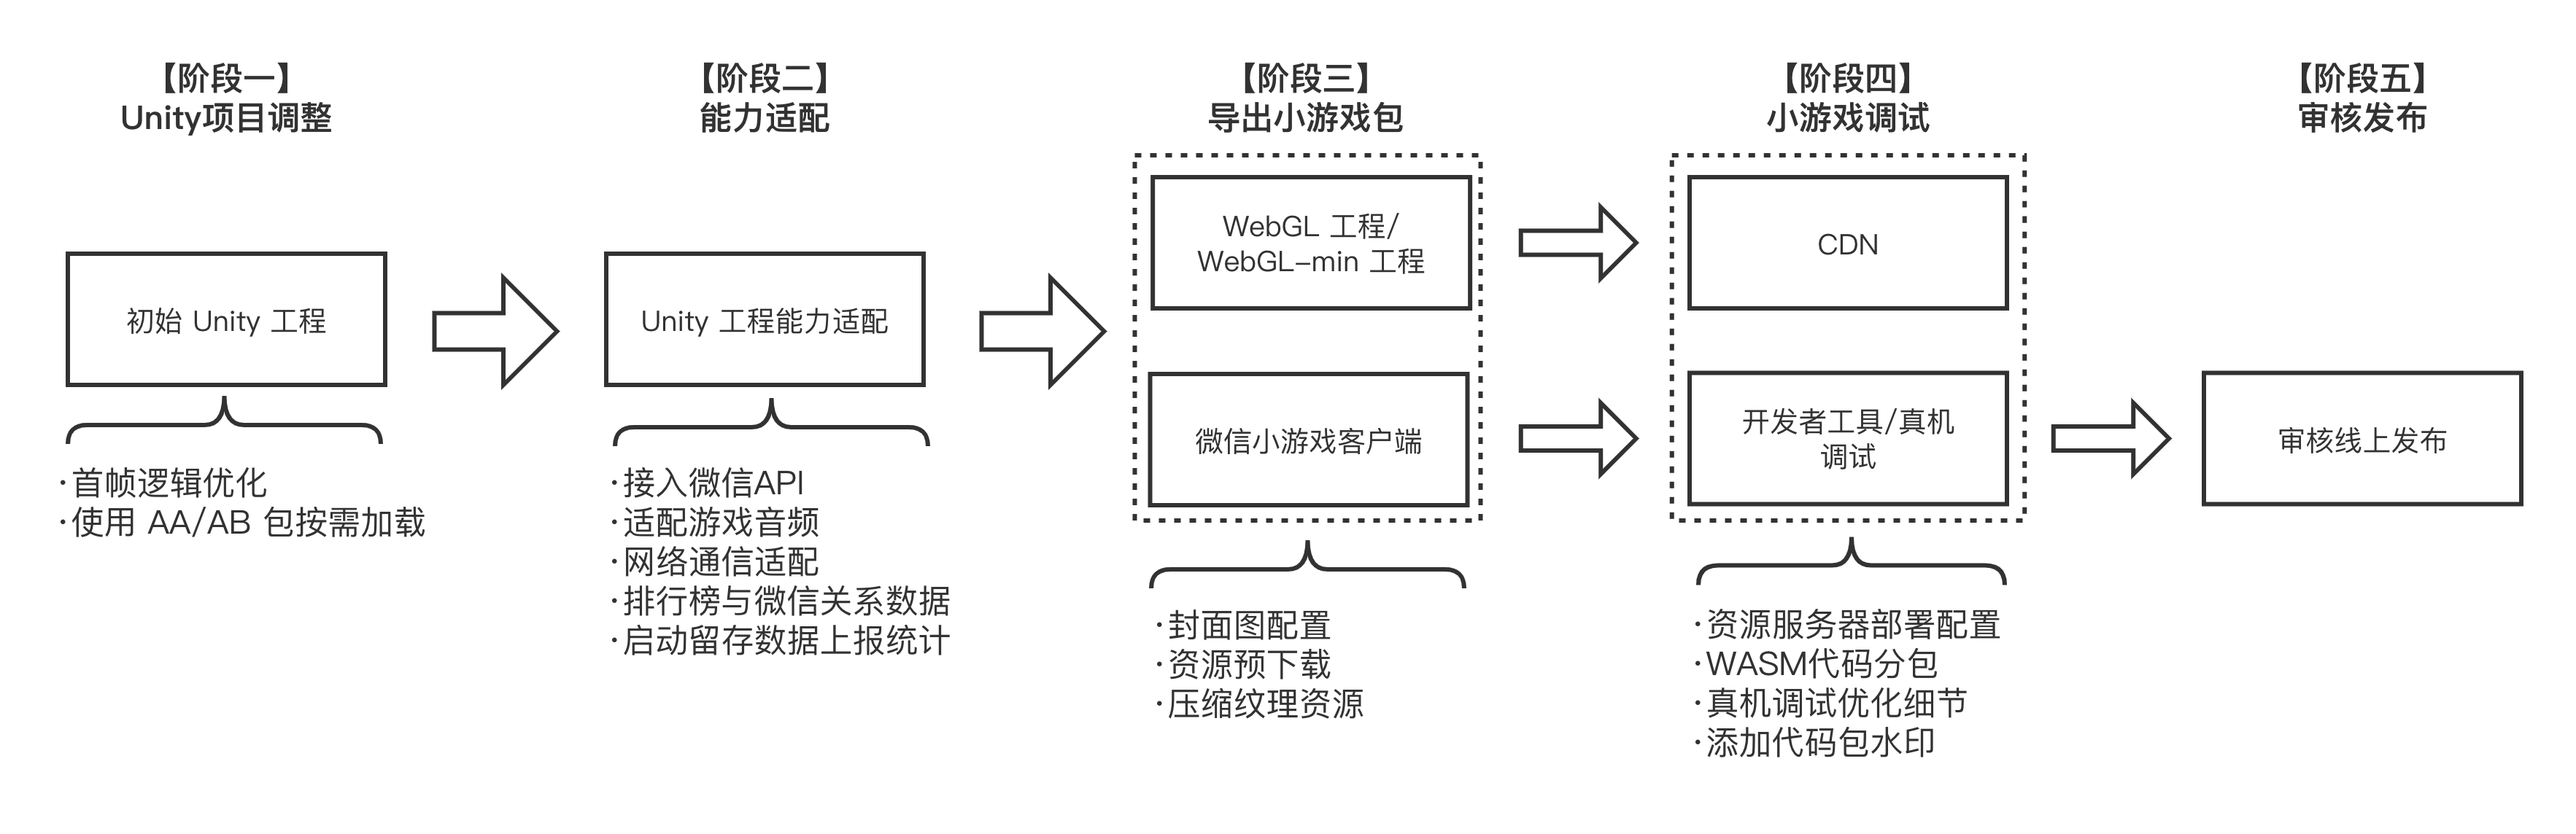
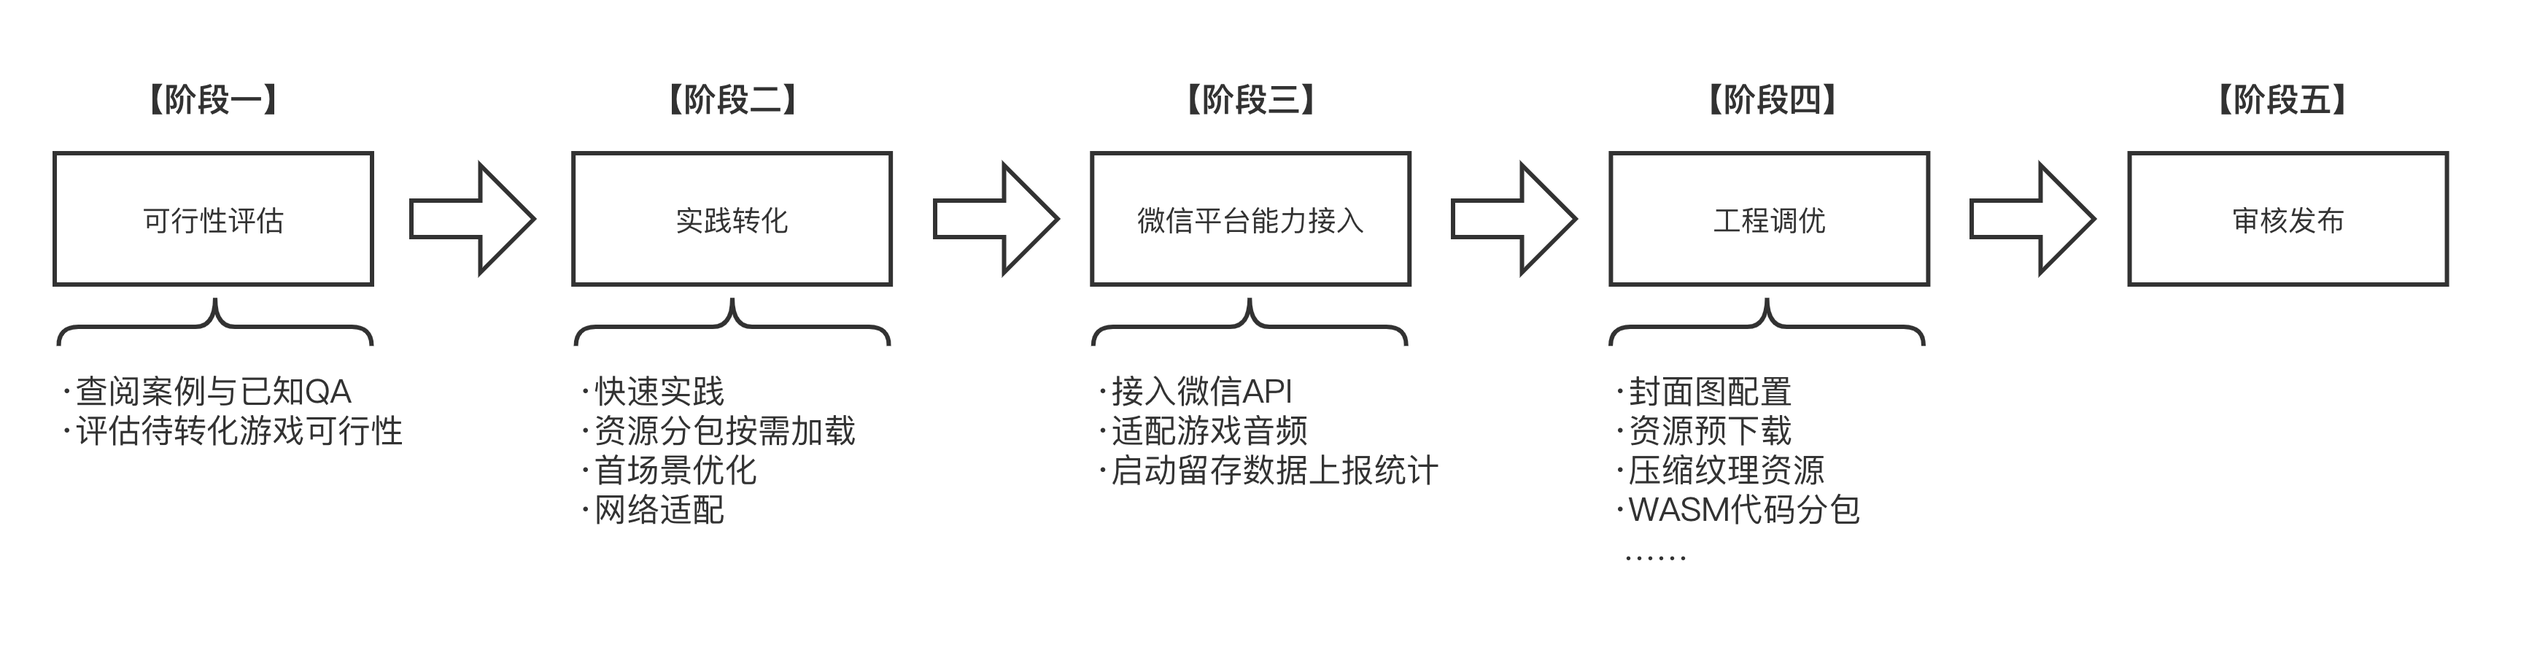
docs: guide

diff --git a/Design/Guide.md b/Design/Guide.md
@@ -1,62 +1,112 @@
 # Unity 游戏接入微信小游戏指南
 
-> 相关下载 [微信 Unity 插件下载](https://game.weixin.qq.com/cgi-bin/gamewxagwasmsplitwap/getunityplugininfo?download=1)
+		欢迎使用 Unity WebGL 小游戏适配(转换)方案，本方案设计目的是**降低 Unity 游戏转换到微信小游戏的开发成本**。基于WebAssembly技术，无需更换Unity引擎与重写核心代码的情况下将原有游戏项目适配到微信小游戏。
 
-		本文档将介绍微信平台提供的各项转化能力的说明与指引，并告知开发者如何根据自己的游戏正确使用这些能力以达到最佳的游戏转化效果，开发者参考文档根据自己游戏所符合条件开始实践！
+### 方案特点：
+
+- 保持原引擎工具链与技术栈
+- 无需重写游戏核心逻辑，支持大部分第三方插件
+- 由转换工具与微信小游戏运行环境保证适配兼容，保持较高还原度
+- 微信小游戏平台能力以C# SDK方式提供给开发者，快速对接平台开放能力
 
 		下图中介绍了接入过程中的流程，以及每一个阶段需要做的优化与配置，下文将介绍每一个阶段的工作：
 
 ![Unity快适配调优指南](../image/guide/guide1.png)
 
-- [【阶段一】Unity项目调整](#阶段一unity项目调整)
-- [【阶段二】能力适配](#阶段二能力适配)
-- [【阶段三】导出小游戏包](#阶段三导出小游戏包)
-- [【阶段四】小游戏调试](#阶段四小游戏调试)
+- [【阶段一】可行性评估](#阶段一可行性评估)
+- [【阶段二】实践转化](#阶段二实践转化)
+- [【阶段三】微信平台能力接入](#阶段三微信平台能力接入)
+- [【阶段四】工程调优](#阶段四工程调优)
 - [【阶段五】审核发布](#阶段五审核发布)
 
-### Unity 版本说明：
-
-		尽管 Unity 快适配方案目前已经支持 2021 及之前的 Unity 引擎版本，但实际开展工作时对范围内部分的 Unity 版本仍然支持不够好，尤其是纹理压缩方案中问题较多，为了确保接入工作的顺利进行，请开发者根据大年份版本切换至指定的小版本引擎中开始适配，以下版本已经被多家开发者验证方案的可行性。
-
-- **2021.2.18f1c1**	（请勿使用 2021.3.x ，已知该版本构建的 bundle 无法进行纹理压缩处理）
-- **2020.3.10f1c1**
-- **2019.4.28f1c1**
 
 
+## 【阶段一】可行性评估
 
-## 【阶段一】Unity项目调整
+> 相关手册：[兼容性评估](Evaluation.md) 、[更多小游戏成功转换案例](ShowCase.md) 、[技术常见问题QA](DevelopmentQAList.md)
+
+		新计划接入游戏的开发者应阅读本节相关手册内容，参考已转化的案例游戏并结合自身游戏情况评估转化的可行性。
+
+### 案例游戏分享
+
+| 我叫MT2(回合战斗) | 旅行串串(休闲) | 谜题大陆(SLG) | 热血神剑(MMO) |
+| :-: | :-: | :-: | :-: |
+| <img src='../image/showcase34.png' width="240"/> | <img src='../image/showcase32.png' width="220"/> | <img src='../image/showcase25.png' width="230"/> | <img src='../image/showcase33.png' width="230"/> |
+
+
+
+## 【阶段二】实践转化
+
+		本节内容将指引开发者如何让自己的游戏工程在微信小游戏平台成功运行。
+
+### 快速开始——转换工具导出微信小游戏
+
+> 相关下载： [微信 Unity 插件下载](https://game.weixin.qq.com/cgi-bin/gamewxagwasmsplitwap/getunityplugininfo?download=1) 、[Node.js长期稳定版](https://nodejs.org/zh-cn/download/)
+>
+> 相关手册：[转换工具导出微信小游戏](Transform.md)
+
+		下载 **微信Unity插件** 并导入 Unity 游戏工程中，版本更新请查看 [更新日志]()，并安装 **Node.js长期稳定版**。
+
+		阅读 **转换工具导出微信小游戏** 快速熟悉工具的使用并完成一次简单的转化工作！
+
+**Unity版本支持说明：**
+
+		已验证可支持转化的 Unity 工程版本为：2018、2019、2020、2021 版本，推荐使用 2019、2021，需安装 WebGL 组件。
+
+
+
+### 资源按需加载概述
+
+> 相关手册：[AA(Addressable) 进行资源按需加载](UsingAddressable.md) 、 [AB(AssetBundle)进行资源按需加载](UsingAssetBundle.md) 、Instant Game 实践指南
+
+		区别于原生 APP 游戏很少考虑场景内的资源规划问题，开发时通常将资源在游戏启动时全加载到内存中，而小游戏需要做到“即点即玩”，影响游戏的呈现速度因素中如首资源包的下载往往占比较大，因此需要根据场景中的主次内容进行资源上的优化分包处理。
+
+		目前分包将基于 AA/AB 包的按需加载，以及 Unity Instant Game 三种方案。值得注意的是，微信小游戏环境中**不支持对本地的 Bundle 进行加载**，因此无论哪种方案最终都采用上传 CDN 方式在游戏运行时异步下载。
+
+#### AA包、AB包、Instant Game 方案选择说明
+
+		AA/AB 包是常规的分包解决方案，关于他们的选择对于轻度游戏来说两者没有特别要求，倒是功能强大的 AA包 使用门槛更低一些，而对于重度游戏，平台目前所反馈到的结论是使用 **AB包** 的性能要比 AA包 更好，AA包较大项目时生成的未压缩的 catalog 较大，加载效率低，改用 AB包后，效果提升明显。
+
+		Instant Game 是由 Unity 官方提供的自动加载方案，有关 Instant Game 详细内容可查阅 **Instant Game 实践指南**，本节说明三种方案的差异：
+
+|                | 常规资源加载方案（AA/AB包） | Instant Game 工具              |
+| -------------- | --------------------------- | ------------------------------ |
+| 技术原理       | 基于 AA/AB 包的异步资源管理 | Unity引擎底层资源异步加载策略  |
+| 引擎版本       | 不限制                      | 目前需指定版本 2021.2.5        |
+| 转化人力       | 适中                        | 较少/适中                      |
+| 懒加载资源类型 | 常见纹理资源                | 纹理、模型、骨骼动画、音频资源 |
+| 自选CDN        | 支持                        | 不支持（需使用腾讯CDN服务）    |
+| 必要的代码修改 | 通常需要适配                | 较少/达到最佳仍需要            |
+| 首资源包处理   | 通常需要适配                | 默认不需要/达到最佳仍需要      |
+
+**选择建议：**
+
+- 游戏工程本身已采用完善的 AA/AB 资源管理，建议继续沿用常规资源加载方案，且有助于后续压缩纹理等优化工作的进行有效提升游戏运行性能；
+- 原生 APP 版本游戏完全没有做资源的拆包，希望减少游戏的转化周期，使用 Instant Game 方案可以快速完成转化工作。
+
+
 
 ### 首场景启动优化——首帧逻辑优化
 
-> 详细手册：[提升Unity WebGL游戏启动速度](StartupOptimization.md) 、[启动流程与时时序](Startup.md) 、 [首场景启动优化](FirstSceneOptimization.md)
+> 相关手册：[提升Unity WebGL游戏启动速度](StartupOptimization.md) 、[启动流程与时时序](Startup.md) 、 [首场景启动优化](FirstSceneOptimization.md)
 
 		根据统计数据反应，小游戏玩家对于游戏的启动时长是较为敏感的，过长的启动时间会导致用户的显著流失，因此如何快速呈现游戏场景是 Unity 原生 APP 游戏接入微信小游戏平台的一个重点优化的工作。首场景启动优化的并不是一个简单的步骤就可以完全优化，在初始 Unity 工程时开发者应主要对游戏代码如首帧逻辑进行修改，具体可参阅首场景启动优化手册。
 
 
 
-### 使用 AA/AB 包按需加载
+### 后端/网络通信适配
 
-> 详细手册：[AA(Addressable) 进行资源按需加载](UsingAddressable.md) 、 [AB(AssetBundle)进行资源按需加载](UsingAssetBundle.md)
+> 相关手册：[后端服务指引](BackendServiceStartup.md) 、[网络通信适配](UsingNetworking.md)
 
-		区别于原生 APP 游戏很少考虑场景内的资源规划问题，开发时通常将资源在游戏启动时全加载到内存中，而小游戏中游戏需要做到“即点即玩”，影响游戏的呈现速度因素中一般诸如首资源包的下载往往占比较大，因此需要根据场景中的主次内容进行资源上的优化分包处理。
-
-		值得注意的是，微信小游戏环境中**不支持对本地的 Bundle 进行加载**，因此必须采用上传 CDN 方式进行异步的下载。
-
-#### 将其他 Scene 使用 AA/AB 打包按需加载
-
-		游戏工程包含多个 Scene 时，构建时应只构建 Loading（首场景）或前期主要关卡 Scene，其他场景采用 bundle 的方式按需下载加载，可以有效的减少首包资源的体积，提升游戏加载速度。
-
-#### AA包与AB包方案选择
-
-		有关 AA包 与 AB包 的选择，对于轻度游戏来说两者没有特别建议，倒是功能强大的 AA包 使用门槛更低一些，而对于重度游戏，平台目前所反馈到的结论是使用 **AB包** 的性能要比 AA包 更好，AA包较大项目时生成的未压缩的 catalog 较大，加载效率低，改用 AB包后，效果提升明显。
+		区别于原生环境，WebGL模式（JavaScript环境）是不支持使用原生套接字（Socket）实现网络通信。对于游戏中使用到网络请求的操作，需要进行相应的适配。将 HTTP 请求使用 UnityWebRequest 类实现，全双工通信改用 WebSocket 协议实现，可参考手册案例完成适配。
 
 
 
-## 【阶段二】能力适配
+## 【阶段三】微信平台能力接入
 
 ### 接入微信API
 
-> 详细手册：[WX SDK 平台能力适配](WX_SDK.md) 、[屏幕适配](fixScreen.md) 、 [输入法适配](InputAdaptation.md) 、 [排行榜与微信关系数据](OpenData.md)
+> 相关手册：[WX SDK 平台能力适配](WX_SDK.md) 、[屏幕适配](fixScreen.md) 、 [输入法适配](InputAdaptation.md) 、 [排行榜与微信关系数据](OpenData.md)
 
 		Unity 游戏接入微信小游戏平台将获得微信提供的 API 以及开放能力，开发者根据需要进行按需接入。微信 API 支持的能力包括登陆、设备（存储、震动）、开放数据、广告等等。
 
@@ -64,7 +114,7 @@
 
 ### 适配游戏音频
 
-> 详细手册：[音频适配优化](AudioOptimization.md)
+> 相关手册：[音频适配优化](AudioOptimization.md)
 
 		Unity2021 版本之前的音频不支持压缩音频，基于 CPU 解压将额外占用内存。在iOS高性能模式下 Unity WebGL 默认使用的 WebAudio 也会消耗大量内存。
 
@@ -72,27 +122,21 @@
 
 
 
-### 网络通信适配
-
-> 详细手册：[网络通信适配](UsingNetworking.md) 、[后端服务指引](BackendServiceStartup.md)
-
-		区别于原生环境，WebGL模式（JavaScript环境）是不支持使用原生套接字（Socket）实现网络通信。对于游戏中使用到网络请求的操作，需要进行相应的适配。将 HTTP 请求使用 UnityWebRequest 类实现，全双工通信改用 WebSocket 协议实现，可参考手册案例完成适配。
-
-
-
 ### 启动留存数据上报统计
 
-> 详细手册：[启动留存数据上报统计](ReportStartupStat.md)
+> 相关手册：[启动留存数据上报统计](ReportStartupStat.md)
 
 		在小游戏中玩家对启动时长与体验十分敏感（尤其从“广告”等买量场景进入的玩家），因此需要在必要的位置进行相关的数据上报，[Unity Loader 插件](UsingLoader.md)为游戏提供了一些基础上报数据，但游戏内部关键帧位置仍需要开发者自行上报，可参阅相关手册完成上报配置。
 
 
 
-## 【阶段三】导出小游戏包
+## 【阶段四】工程调优
+
+		截止本阶段，开发者的 Unity 游戏将在微信小游戏平台成功启动运行，但为了能够达到更佳的游戏体验开发者应继续进行对游戏工程的调优工作，本节将介绍目前微信小游戏平台为开发者提供的调优能力完成上线前的最后优化工作。
 
 ### 封面图配置
 
-> 详细手册：[启动封面](CustomLoading.md)
+> 相关手册：[启动封面](CustomLoading.md)
 
 		由于 Unity WebGL 的启动加载需要一定的时间，微信小游戏支持通过配置封面图/视频等内容作为加载期间的过渡来留住玩家，微信小游戏支持如下自定义配置项：
 
@@ -105,7 +149,7 @@
 
 ### 资源预下载
 
-> 详细手册：[使用预下载功能](UsingPreload.md)
+> 相关手册：[使用预下载功能](UsingPreload.md)
 
 		在 UnityLoader 加载过程中是存在CPU处理密集而 **网络空闲** 的情况，因此可以充分利用该时机进行一些必要的资源下载可有助于提升游戏场景等资源的载入速度。
 
@@ -113,7 +157,7 @@
 
 ### 压缩纹理资源
 
-> 详细手册： [压缩纹理优化](CompressedTexture.md) 
+> 相关手册： [压缩纹理优化](CompressedTexture.md) 
 
 		压缩纹理工具是微信SDK提供的一种能够根据不同的游戏运行平台而按需加载压缩后纹理资源的能力。它的优点是：
 
@@ -124,19 +168,17 @@
 
 
 
-## 【阶段四】小游戏调试
-
 ### 资源服务器部署配置
 
-> 详细手册：[资源部署与缓存](DataCDN.md) 、[资源缓存](FileCache.md) 、[iOS高性能模式](iOSOptimization.md)
+> 相关手册：[资源部署与缓存](DataCDN.md) 、[资源缓存](FileCache.md) 、[iOS高性能模式](iOSOptimization.md)
 
-		游戏导出小游戏包(/minigame)将使用微信开发者工具打开，而资源目录(/webgl 或 /webgl-min)需要上传至开发者的 CDN 服务器中，并前往 MP 后台配置安全域名白名单，对于进一步提升 iOS 下的游戏运行效率可前往 MP 申请 iOS 高性能模式，请阅读相关手册完成相应的部署。
+		游戏导出小游戏包(/minigame)将使用微信开发者工具打开，而资源目录(/webgl 或 /webgl-min)需要上传至开发者的 CDN 服务器中，并前往 MP 后台配置安全域名白名单，对于进一步提升 iOS 下的游戏运行效率可前往 MP 申请 **iOS 高性能模式**，请阅读相关手册完成相应的部署。
 
 
 
 ### WASM代码分包
 
-> 详细手册：[使用代码分包工具](WasmSplit.md)
+> 相关手册：[使用代码分包工具](WasmSplit.md)
 
 		Unity 导出小游戏项目后代码将存储在 wasm 文件中，而游戏启动时需要完整的 wasm 文件才可以运行，于是微信小游戏提供了WASM代码分包能力，将原本的 wasm 文件根据游戏逻辑的主次内容分为 2 个 wasm 文件，一个用于启动加载另一个将被延迟加载，这样就允许先加载较小的首包快速进入主场景。该能力可以有效**降低内存的使用**，以及**减少脚本编译的时间**。
 
@@ -144,21 +186,33 @@
 
 ### 使用水印保护代码包安全
 
-> 详细手册：[WASM水印插件](wasmWaterMark.md)
+> 相关手册：[WASM水印插件](wasmWaterMark.md)
 
 		为保护原创游戏开发者的利益，通过对代码包进行水印的添加平台可快速准确的打击恶意抄袭的行为。
 
 
 
-## 【阶段五】审核发布
+### 使用工具测试运行性能及调优
 
-		审核发布可参考 MP 文档 [小游戏接入指南](https://developers.weixin.qq.com/minigame/introduction/guide.html) 自助完成。
+		游戏转化完成后仍需要对各项的性能指标进行量化测试，本节给出各项工具的使用与对应的调优策略，开发者根据指引完成测试与优化。
+
+**性能测试与优化：**
+
+- [使用 Android CPU Profiler 性能调优](AndroidProfile.md)
+- [使用 Unity Profiler 性能调优](UnityProfiler.md)
+- [优化 Unity WebGL 内存](OptimizationMemory.md)
+- [资源优化工具与建议](AssetOptimization.md)
+
+**异常相关：**
+
+- [开发错误调试与排查](DebugAndException.md)
+- [现网错误日志上报与排查](IssueForProduction.md)
 
 
 
-## 各类型游戏的优化侧重点
+### 各类型游戏的优化侧重点
 
-		不同的游戏所需要的性能不尽相同，转化过程中的复杂度以及关注的侧重点自然也是不同的。游戏开发者可以根据自己游戏的类型进行不同的优化策略来提升实际的游戏体验，本节列举开发者对不同类型的游戏应重点关注的优化内容。
+		不同的游戏所需要的性能不尽相同，转化过程中的复杂度以及关注的侧重点自然也是不同的。游戏开发者可以根据自己游戏的类型进行不同的优化策略来提升实际的游戏体验，本节总结的列举开发者对不同类型的游戏应重点关注的优化内容。
 
 - 小型游戏
 
@@ -180,16 +234,12 @@
 
 
 
-### 测试&调优&异常 相关
+## 【阶段五】审核发布
 
-		上述文档介绍常见的转化过程，优质游戏仍需要进行专项的测试与调优工作，请阅读如下手册完成最后的优化！
-
-- [使用 Android CPU Profiler 性能调优](AndroidProfile.md)
-- [使用 Unity Profiler 性能调优](UnityProfiler.md)
-- [优化 Unity WebGL 内存](OptimizationMemory.md)
-- [资源优化工具与建议](AssetOptimization.md)
-- [开发错误调试与排查](DebugAndException.md)
-- [现网错误日志上报与排查](IssueForProduction.md)
+		审核发布可参考 MP 文档 [小游戏接入指南](https://developers.weixin.qq.com/minigame/introduction/guide.html) 自助完成。
 
 
 
+## 问题反馈
+
+- [问题反馈与联系我们](IssueAndContact.md)
